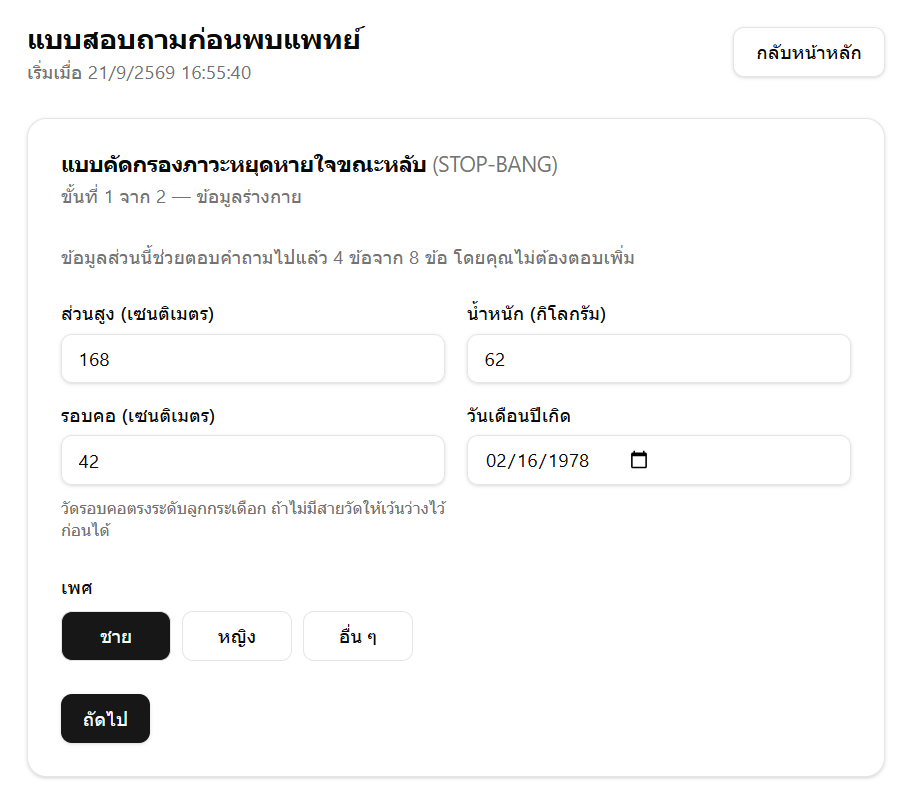
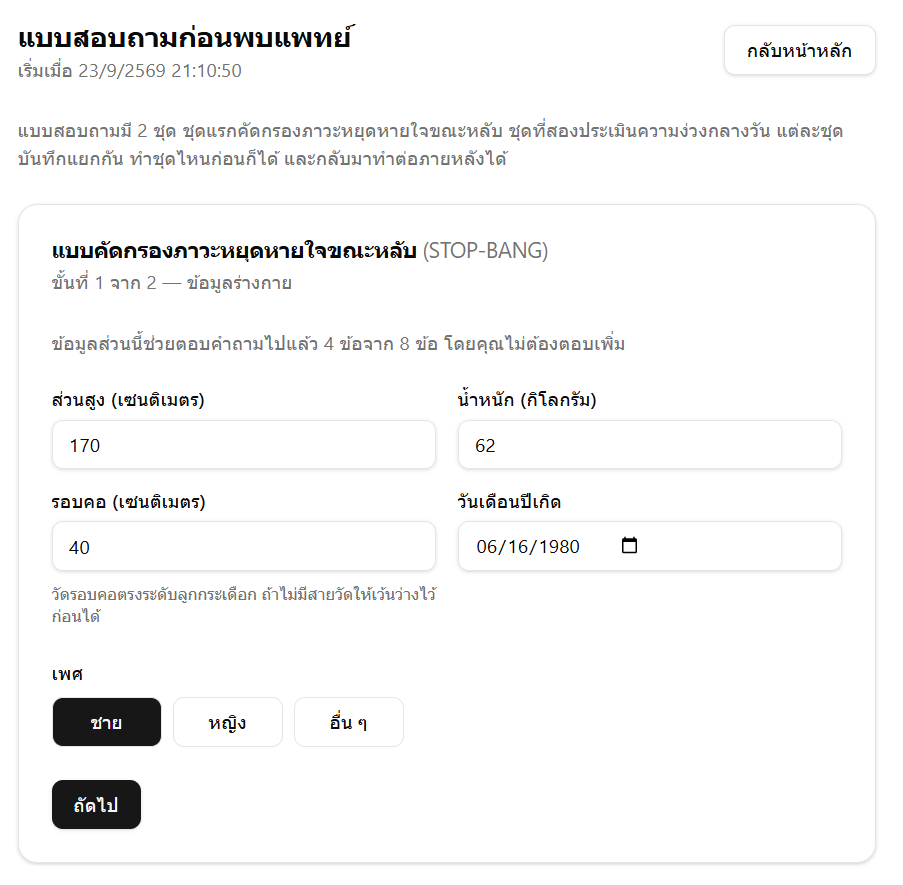
Complete the screenshot set for submission
Twenty captures, all from the running system, each filed under a name that
says what it proves rather than what it shows.

Adds the two that were missing and that the project's main claims rest on:
the ESS questionnaire as a patient sees it, and clinician_summaries with
status = pending_review and prompt_version recorded — the evidence that an
AI draft does not enter the record on its own and can be traced to the
instructions that produced it.

Replaces four captures that had gone stale: the clinician dashboard now
shows both scores and the urgent flag in one frame, the patient dashboard
carries the renamed button, the intake page shows the two-questionnaire
intro, and questionnaire_scores was re-taken through the SQL Editor so
nothing is truncated.

Keeps ESS item 8 answered at maximum as its own image. It is the input that
produces the urgent driving flag, and paired with that flag it explains the
mechanism without a word of narration.

Claude-Session: https://claude.ai/code/session_01BQ7nWQPSP87aEmFpgGChWn

diff --git a/docs/screenshots/README.md b/docs/screenshots/README.md
@@ -1,49 +1,54 @@
 # Screenshots
 
-Each image here exists to answer one question. The caption is what that image
-proves — not a description of what is on screen, which anyone can see.
+Each image answers one question. The caption is what the image proves — not a
+description of what is on screen, which anyone can see.
 
-Capture everything at the same browser width so the set reads as one system.
-Save straight into this folder under these exact names; do not route them
-through PowerPoint first, because an image pasted into a slide is no longer a
-file anyone can re-use.
+All captures were taken from the running system. Nothing here is a mock-up.
 
 ## The set
 
 | File | Answers the question |
 | --- | --- |
-| `01-clinician-dashboard.png` | What does a doctor see when they open this? |
-| `02-clinician-review-queue.png` | **Retake.** The review queue holding a real AI draft, in Thai, with the approve and reject buttons visible. |
+| `00-landing-page.png` | What is this, in one screen? The four principles the system holds itself to. |
+| `01-clinician-dashboard.png` | What does a doctor see? One case with both scores, an urgent flag, and the button that asks for an AI draft. |
+| `02-clinician-review-queue.png` | What does an AI draft look like before anyone accepts it? Full text, four sections, approve and reject. |
 | `03-patient-dashboard.png` | What does a patient see? |
-| `04-patient-form-step1.png` | How are the measurements collected? |
+| `04-patient-form-step1.png` | How does intake start? Note the line explaining that there are two questionnaires. |
 | `05-patient-form-step2.png` | How are the STOP-BANG questions asked? |
-| `06-tests-passing.png` | **Retake.** `npm test` showing `pass 82`. |
-| `07-scores-table.png` | Where do the scores live, and who wrote them? |
+| `06-tests-passing.png` | Is the scoring actually tested? `pass 82`. |
+| `07-scores-table.png` | Who computed the scores? Two instruments, separate rows, `computed_by = deterministic_engine`. |
 | `08-rls-policies.png` | Is access control real, or asserted? |
-| `09-ess-patient-form.png` | How is daytime sleepiness measured? Show the 0–3 scale explained at the top plus the first few items. |
-| `10-clinician-two-scores.png` | What does a doctor take in within three seconds? One case card showing the STOP-BANG letter row and the ESS number row together. |
-| `11-urgent-driving-flag.png` | Why is this better than reading a total? The ณิชา case on `/demo/clinician` — dark red border, the urgent badge, and the driving text in one frame. |
-| `12-ai-processing-log.png` | What is kept about each AI call? The `ai_processing_logs` table with all columns visible — the point is the **absence** of any column holding prompt or reply text. |
-| `13-summary-pending-review.png` | Does AI output enter the record automatically? The `clinician_summaries` table showing `status = pending_review` and `prompt_version = summary-v1`. |
-| `14-public-demo-ai.png` | Can an evaluator see the AI without an account? The AI section of `/demo/clinician`, including the yellow "ต้องยืนยันกับผู้ป่วยก่อนเชื่อถือ" list. |
-| `15-ai-draft-example-2.png` | Optional second example. A different real case, useful as a backup slide when someone asks whether the first output was cherry-picked. |
+| `09-ess-patient-form.png` | How is daytime sleepiness measured? The 0–3 scale explained once, then the items. |
+| `09b-ess-driving-item.png` | Item 8 answered at maximum — the input that produces the urgent flag in `11`. |
+| `10-clinician-two-scores.png` | What does a doctor take in within three seconds? Letters for STOP-BANG, numbers for ESS. |
+| `11-urgent-driving-flag.png` | **The key image.** Both totals unremarkable, yet flagged urgent, because of one item. |
+| `12a-ai-processing-log-left.png` | What is recorded about an AI call — part one. |
+| `12b-ai-processing-log-right.png` | Part two. The point is the **absence** of any column holding prompt or reply text. One row is a real failure, kept deliberately. |
+| `13a-summary-pending-review.png` | Does AI output enter the record automatically? `status = pending_review`, `reviewed_by = NULL`. |
+| `13b-summary-prompt-version.png` | Can an approved summary be traced to the instructions that produced it? `prompt_version = summary-v1`. |
+| `14-public-demo-ai.png` | Can an evaluator see the AI without an account? |
+| `15-ai-draft-example-2.png` | Was the first output cherry-picked? A second case, different shape. |
+| `16-demo-incomplete-floor.png` | What happens when a questionnaire is unfinished? The score is reported as a floor with its ceiling. |
 
 ## The two that carry the most weight
 
-`11` is the single strongest image in the set. It shows a patient whose totals
-are unremarkable on both questionnaires and who is nonetheless flagged as
-urgent, because one item about dozing in traffic was answered at maximum. No
-sentence explains the value of this system as quickly as that card does.
+`11` is the strongest image here. A patient whose totals are unremarkable on
+both questionnaires, flagged urgent because one item about dozing in traffic
+was answered at maximum. Pair it with `09b`, which shows that answer being
+given — the cause and the effect, on two slides.
 
-`12` is the one to have ready for the privacy question. It is evidence of a
-negative — that nothing identifying is stored about the AI calls — and a
-negative is very hard to argue in words and very easy to show.
+`12b` is the one to have ready for the privacy question. It is evidence of a
+negative, and a negative is hard to argue in words and easy to show.
 
 ## How to capture
 
-`Win + Shift + S`, drag around the region, then paste into Paint and save as
-PNG under the name above. Keep the browser window at one width throughout.
+`Win + Shift + S`, drag around the region, paste into Paint, save as PNG.
+Keep the browser at one width throughout so the set reads as one system.
 
-For the Supabase tables, widen the columns so nothing is cut off mid-value —
-a screenshot of a table with a truncated column invites the question of what
-was hidden.
+For database views, prefer the **SQL Editor** over the Table Editor when the
+table has long `jsonb` columns: selecting only the columns that matter gives a
+narrow, complete result with nothing truncated. `07` was taken that way.
+
+The no-truncation rule applies strictly to `12a`/`12b`, where the claim is
+that a column does not exist. Elsewhere a clipped `jsonb` blob is harmless —
+nobody is being asked to read it.
